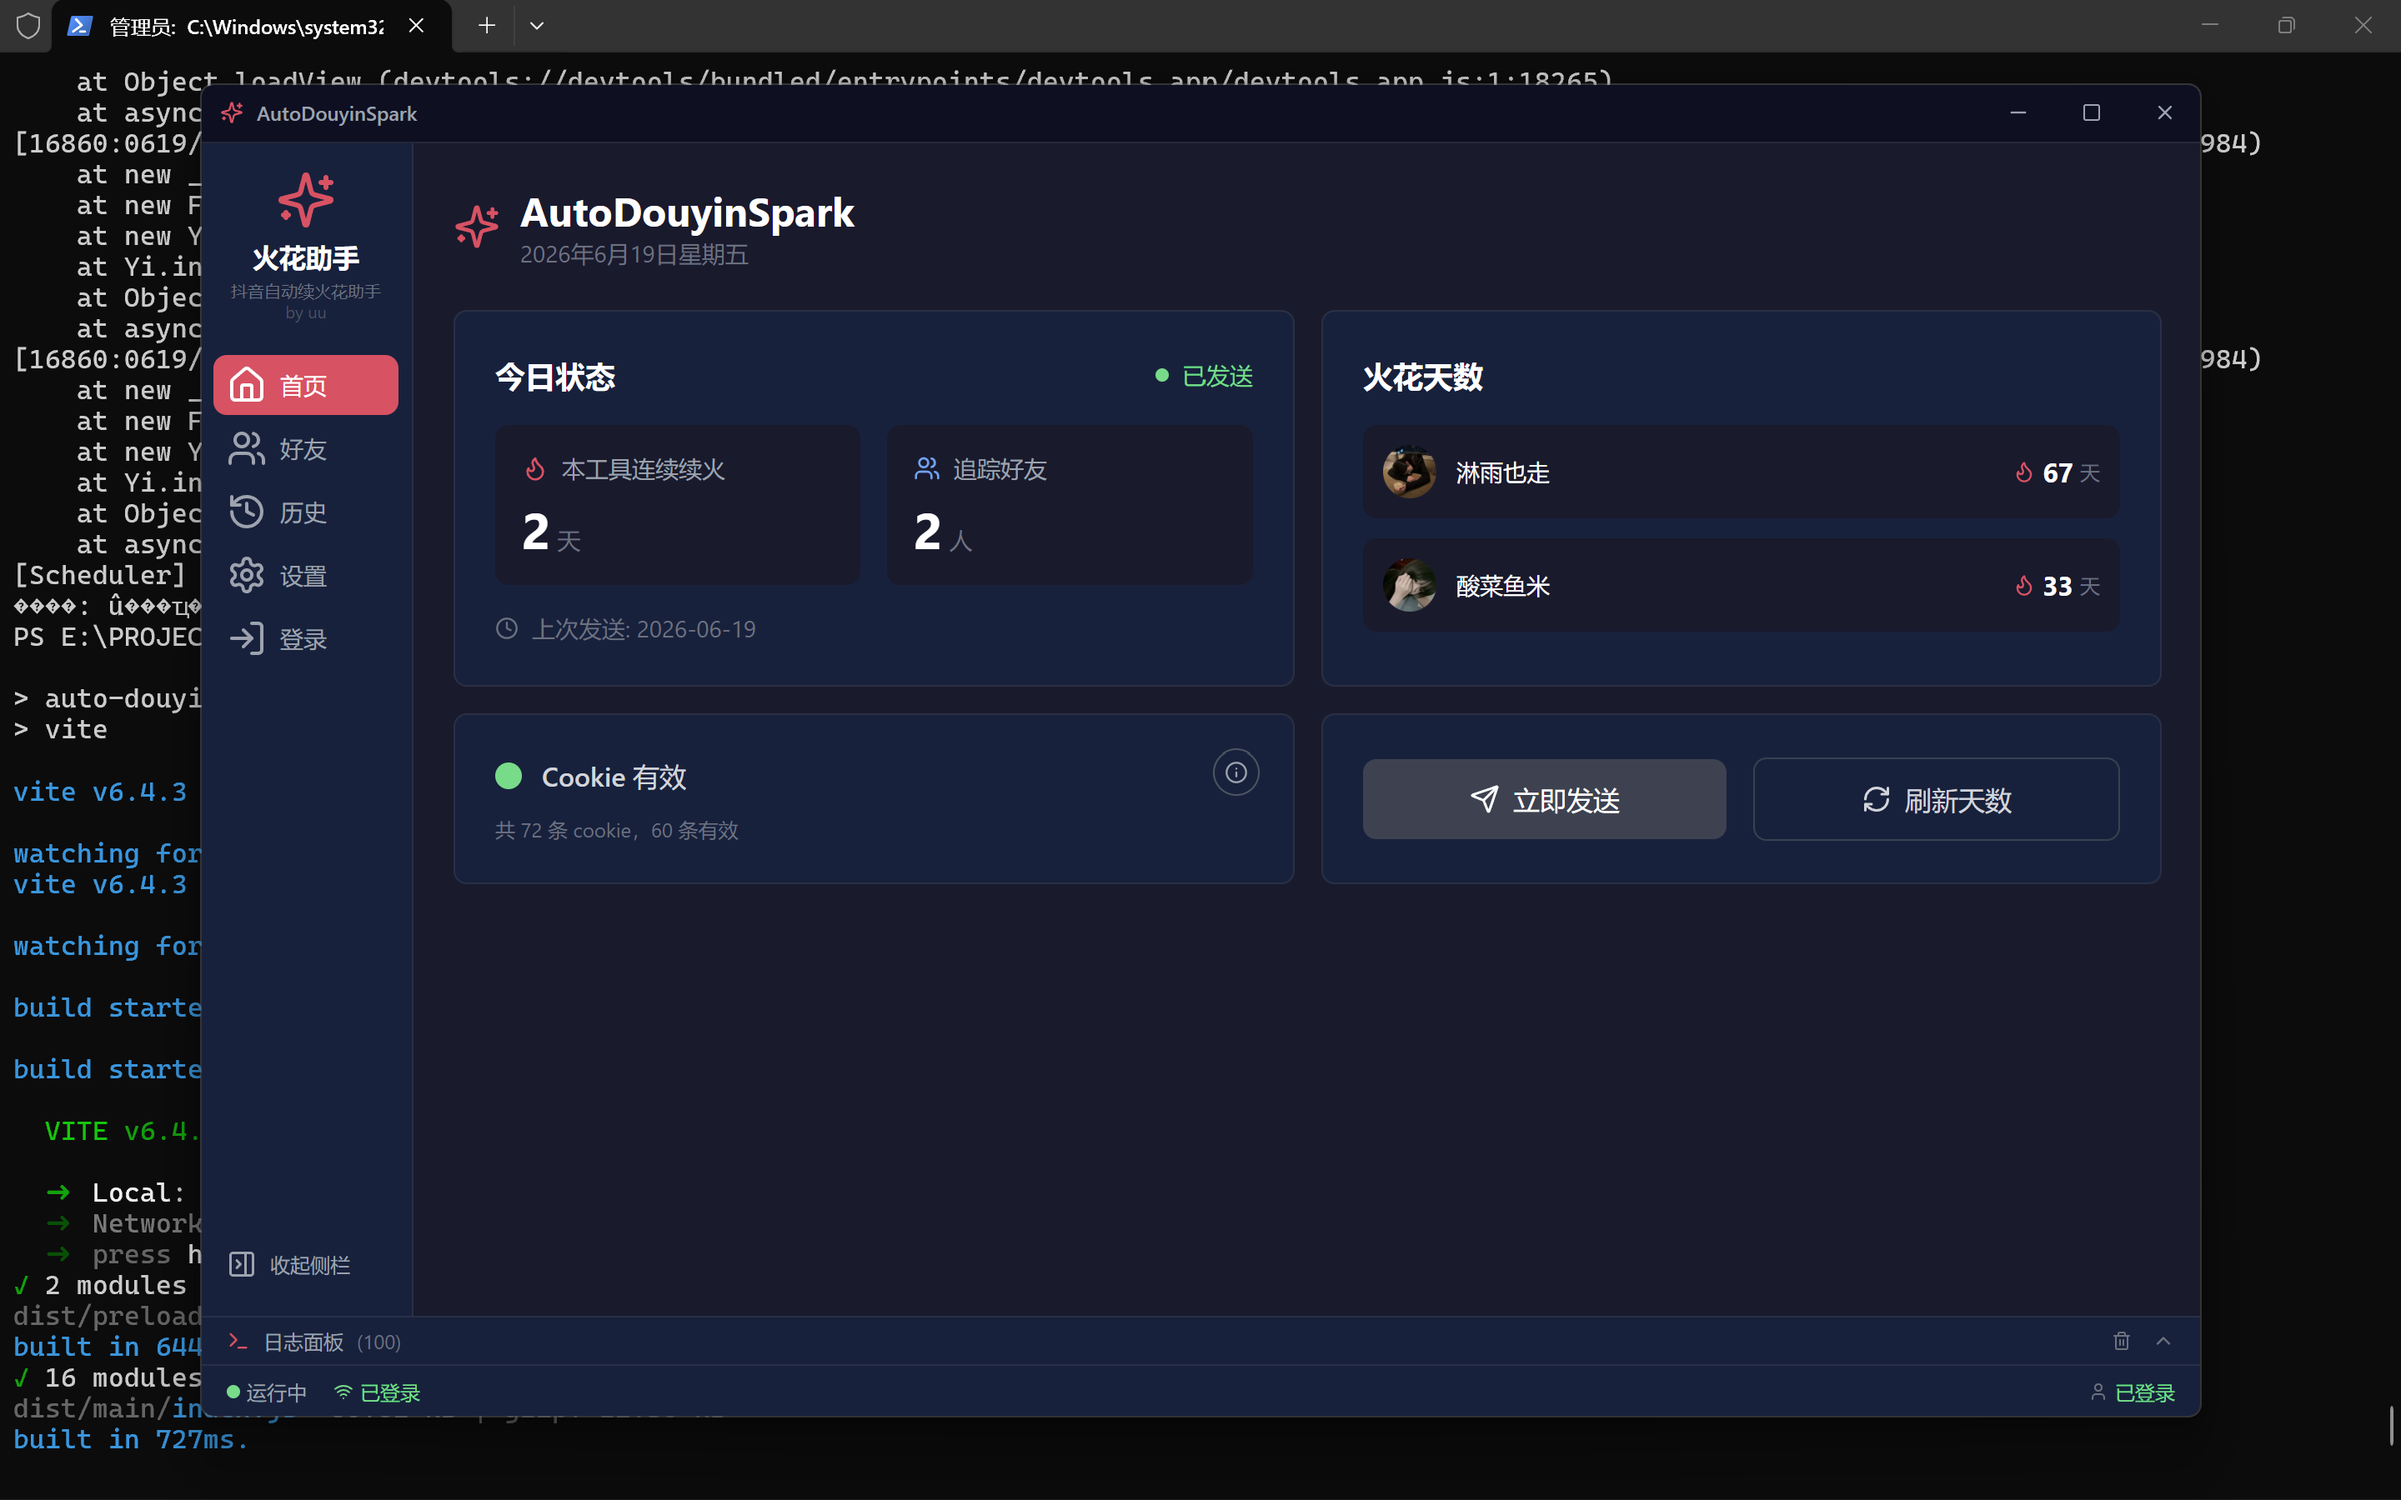
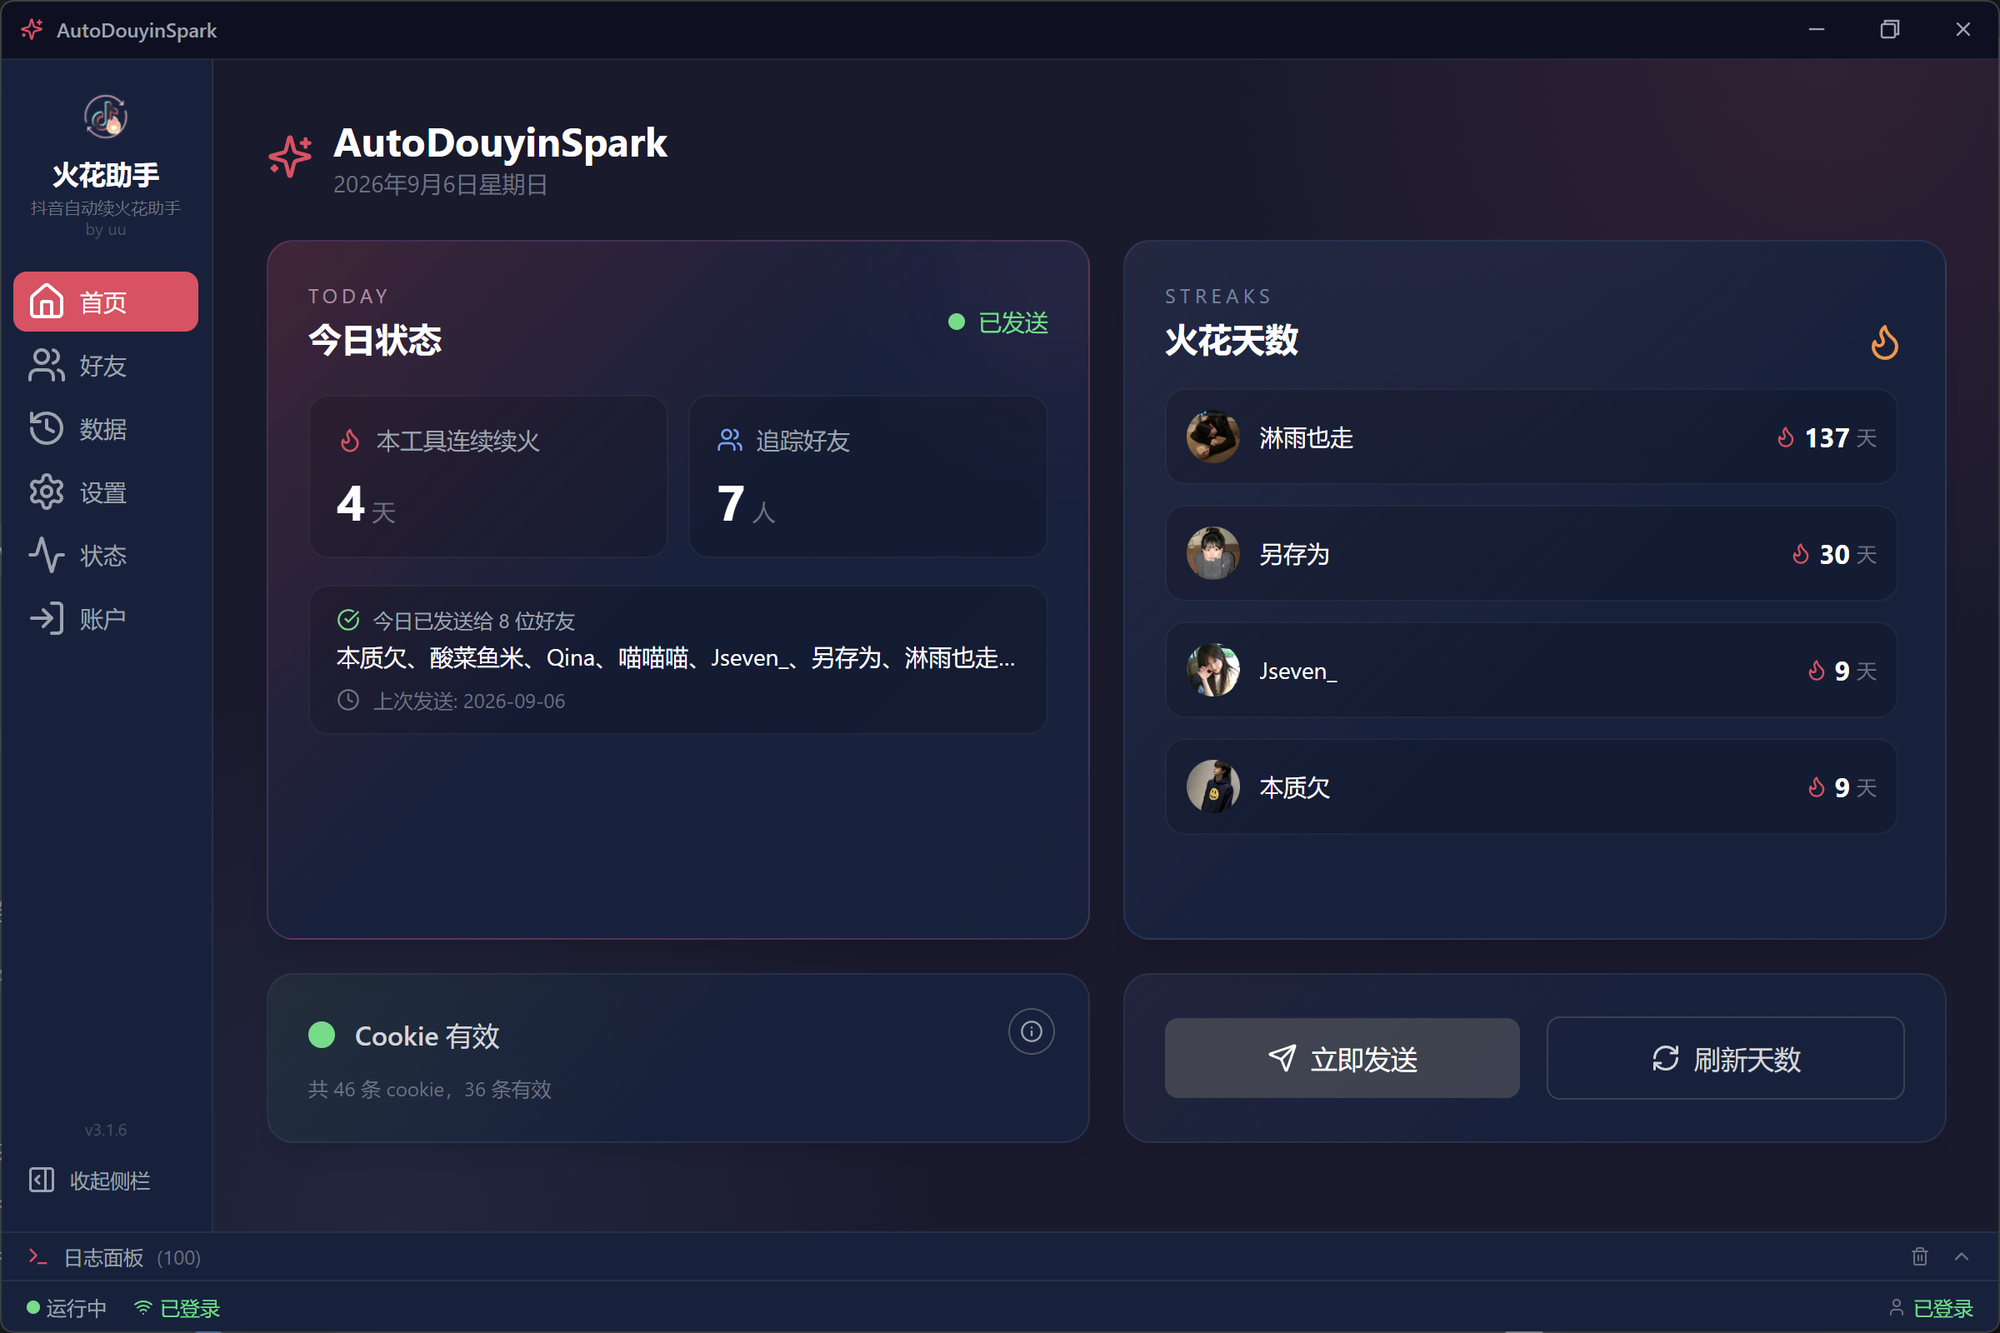
docs: refresh showcase screenshots and release history

diff --git a/release_notes.md b/release_notes.md
@@ -1,60 +1,48 @@
-## v3.1.3 (2026-09-06)
+# 更新日志
 
-### 🐛 修复
+## v3.1.6（2026-09-06）
 
-- 修复 Windows 计划任务 XML 缺少 UTF-16 BOM 导致 `schtasks` 报 XML 格式错误的问题。
-- 计划任务改为使用当前 Windows 用户 SID，避免固定 SID 失效。
-
----
-
-## v3.1.2 (2026-09-06)
-
-### 🐛 修复
-
-- 修复网页登录遇到损坏的锁文件、浏览器状态文件或异常 Cookie 元素时触发 `'int' object has no attribute 'get'`，现在会自动过滤脏数据并清理无效锁。
-- 修复主页切换校验 Cookie 时，`sameSite` 异常对象触发 `unhashable type: 'dict'` 并误跳转登录页的问题。
-
-### ✨ 新增与优化
-
-- 全局界面采用统一深色渐变、圆角面板和响应式排版。
-- 好友页支持列表/竖向卡片切换、拖动排序，以及“编辑”“更新”操作。
-- 历史页更名为“数据”，支持多选好友、按勾选顺序排列图表层序，并可在最新节点显示头像；同天数好友会产生堆叠效果。
-- 续火历史改为跨进程锁 + 原子读改写，并在距离上次备份满三天时自动备份。
-- 设置页统一使用“限制发送时间”名称。
-- 登录页支持新增与切换本地账户。
-- 每个账户独立保存 Cookie、好友、历史、截图和火花状态，账户之间互不共享。
-- 支持账户备注、更新、导出 ZIP；删除账户时隐藏账户并清除 Cookie，保留好友、历史和火花数据，重新导入同一抖音号可恢复。
-- 登录成功后从 `https://www.douyin.com/user/self` 识别抖音号、头像和名称，并将名称作为默认备注。
-- 好友页卡片模式将“+ 添加”固定放在好友卡片最后。
-- 计划任务改为遍历所有账户，未暂停且已登录的账户均自动续火花；账户页支持暂停/恢复单个账户任务。
-- 聊天相关流程直接进入 `/chat` 后关闭信任验证弹窗；检测到验证码中转页时提醒人工验证，验证完成后自动关闭浏览器并继续后续调度。
-- 并发续火花遇到浏览器 `Out of memory/OOM` 时，本轮自动将并发降至 2，重复触发则降至 1，并仅重试受影响好友一次。
-## v3.1.3 (2026-09-06)
-
-### 🐛 修复
-
-- 修复 Windows 计划任务 XML 缺少 UTF-16 BOM 导致 `schtasks` 报 XML 格式错误的问题。
-- 计划任务改为使用当前 Windows 用户 SID，避免固定 SID 失效。
-## v3.1.4 (2026-09-06)
-
-### 🐛 修复
-
-- 手动导入 Cookie 后先执行当前账户的真实登录校验，校验通过并写入登录缓存后再进入首页，避免导入成功后被 `ProtectedRoute` 立即送回登录页。
-- 导入失败或 Cookie 已失效时直接显示具体原因，不再误报导入成功。
-
----
-## v3.1.5 (2026-09-06)
-
-### 🐛 修复
-
-- 修复并发发送结果未回传到引擎，导致消息实际发送成功但前端显示“发送失败”的问题。
-
----
-## v3.1.6 (2026-09-06)
-
-### 🐛 修复
-
-- 修复好友搜索结果带火花标记或不可见字符时无法匹配，导致“立即发送”全部失败的问题。
+- 修复聊天页加载后弹窗导致发送失败的问题。
+- 修复好友搜索结果带火花标记或不可见字符时无法匹配的问题。
 - 增加失败好友反馈，并区分全部失败与部分发送完成。
 
----
+## v3.1.5（2026-09-06）
+
+- 修复并发发送结果未正确回传，避免实际发送成功却显示“发送失败”。
+
+## v3.1.4（2026-09-06）
+
+- 修复手动导入 Cookie 后未完成真实登录校验，导致无法跳转首页的问题。
+- 导入失败或 Cookie 已失效时显示具体原因。
+
+## v3.1.3（2026-09-06）
+
+- 修复 Windows 计划任务 XML 编码和用户 SID 配置问题。
+
+## v3.1.2（2026-09-06）
+
+- 修复网页登录脏数据、异常 Cookie 类型和主页切换误跳登录问题。
+
+## v3.1.1（2026-09-05）
+
+- 增加浏览器内存压力保护，发生 OOM 时自动降低并发数。
+
+## v3.1.0（2026-09-04）
+
+- 新增多账户管理、账户备注、暂停、导出和删除功能。
+- 各账户的 Cookie、好友、历史、截图和火花状态相互隔离。
+- 删除账户时仅隐藏账户并清除 Cookie，保留数据以便重新导入恢复。
+
+## v2.9.1（2026-09-04）
+
+- 修复 Cookie 检查竞态，避免登录状态被旧结果覆盖。
+
+## v2.9.0（2026-09-03）
+
+- 修复首页状态卡片与火花天数联动、强制发送目标失效和历史记录丢失。
+- 新增最多 8 路好友识别并发、版本号显示和设置页顺序优化。
+
+## v2.8.0（2026-09-03）
+
+- 修复登录后首页跳转、私聊/群聊定位、重复启动和截图保存问题。
+- 新增状态页、8 线程并发续火和个人页抖音号识别。

diff --git a/README.md b/README.md
@@ -129,6 +129,15 @@ AutoDouyinSpark/
 
 | 日期 | 版本 | 说明 |
 |------|------|------|
+| 2026-09-06 | v3.1.6 | 修复聊天页加载后弹窗导致发送失败、好友搜索匹配失败及立即发送结果显示错误的问题 |
+| 2026-09-06 | v3.1.5 | 修复并发发送结果未正确回传，避免实际发送成功却显示失败 |
+| 2026-09-06 | v3.1.4 | 修复手动导入 Cookie 后无法完成登录校验并返回首页的问题 |
+| 2026-09-06 | v3.1.3 | 修复 Windows 计划任务 XML 编码和用户 SID 配置问题 |
+| 2026-09-06 | v3.1.2 | 修复网页登录脏数据、异常 Cookie 类型和主页切换误跳登录问题 |
+| 2026-09-05 | v3.1.1 | 增加浏览器内存压力保护，发生 OOM 时自动降低并发数 |
+| 2026-09-04 | v3.1.0 | 新增多账户管理、账户备注/暂停/导出/删除及账户数据隔离 |
+| 2026-09-04 | v3.0.0 | 全局界面重构；好友卡片管理；数据页多好友图表、头像节点和历史备份 |
+| 2026-09-04 | v2.9.1 | 修复 Cookie 检查竞态，避免登录状态被旧结果覆盖 |
 | 2026-09-03 | v2.9.0 | 修复首页状态卡片与火花天数联动、强制发送目标失效、历史记录丢失；新增最多 8 路好友识别并发、版本号显示和设置页顺序优化 |
 | 2026-09-03 | v2.8.0 | 修复登录后首页跳转、私聊/群聊定位、重复启动与截图保存；新增状态页、8线程并发续火和个人页抖音号识别 |
 | 2026-08-14 | v2.7 | 好友三级匹配（备注名/抖音号/头像）、首次添加自动识别抖音号与头像、好友改名功能 |
